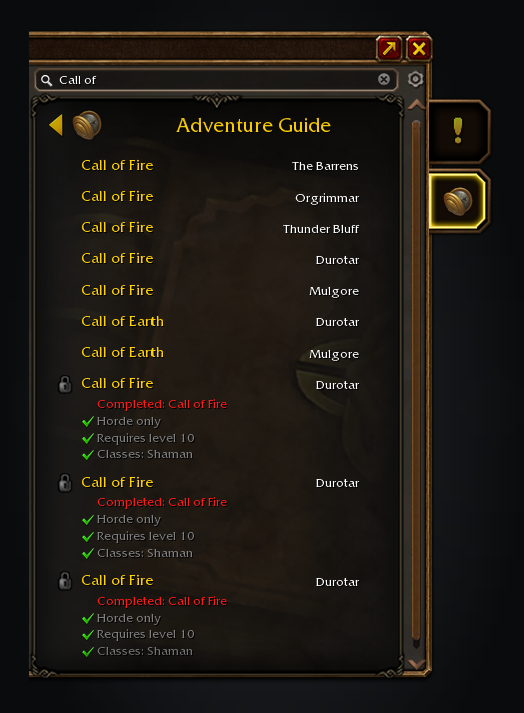
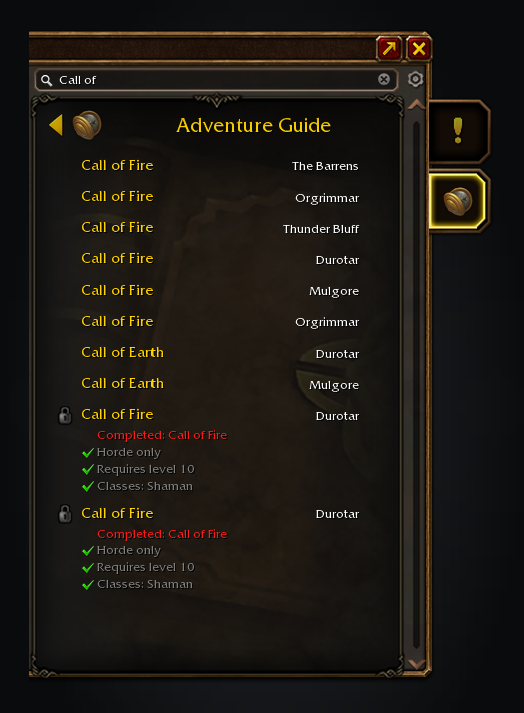
chore(data): refresh to QuestieDB 1.1.6 and client build 1.60.1.71139
Quest 687 needs only quest 653, so two chains through it prove their total.

Closes #975

Claude-Session: https://claude.ai/code/session_01UkMWrzUUXUNU1mLFMDKVaL

diff --git a/tools/gen_corpus.py b/tools/gen_corpus.py
@@ -32,9 +32,9 @@ BOOK_FIXTURE = CORPUS / "books.lua"
 # QuestieDB's Forever release, pinned to the tag, the asset name and the asset's sha256. QuestieDB renamed its
 # assets at v1.0.11 to QuestieDB-<version>-<flavour>.zip, so the asset name is pinned beside the tag and moved by
 # tools/refresh_pins.py. The refresh workflow moves all three.
-QUESTIEDB_TAG = "v1.1.5"
-QUESTIEDB_ASSET = "QuestieDB-1.1.5-Forever.zip"
[1 lines of base64/hex data omitted]
+QUESTIEDB_TAG = "v1.1.6"
+QUESTIEDB_ASSET = "QuestieDB-1.1.6-Forever.zip"
[1 lines of base64/hex data omitted]
 QUESTIEDB_URL = f"https://github.com/Questie/QuestieDB/releases/download/{QUESTIEDB_TAG}/{QUESTIEDB_ASSET}"
 
 

diff --git a/tools/gen_quests.py b/tools/gen_quests.py
@@ -25,7 +25,7 @@ from pathlib import Path
 
 from forever_tools import fsio, wago
 
-BUILD = "1.60.1.71037"
+BUILD = "1.60.1.71139"
 # The last build with WorldMapArea: quest_poi's mapAreaId is one of its IDs, which UiMap replaced in 8.0.
 LEGACY_MAP_BUILD = "7.3.5.26972"
 CLASSICDB_COMMIT = "22b51464f1625f6ef6275771de1f5466c6f5d19e"

diff --git a/changes/975.md b/changes/975.md
@@ -1,0 +1,3 @@
+### Changed
+
+- Quest data is refreshed to QuestieDB 1.1.6 and client build 1.60.1.71139: new quests such as the An Epic Ride mount quests and Kum'isha's Endeavors appear on the route, and two quest chains now show how many chapters they have. (#975)
